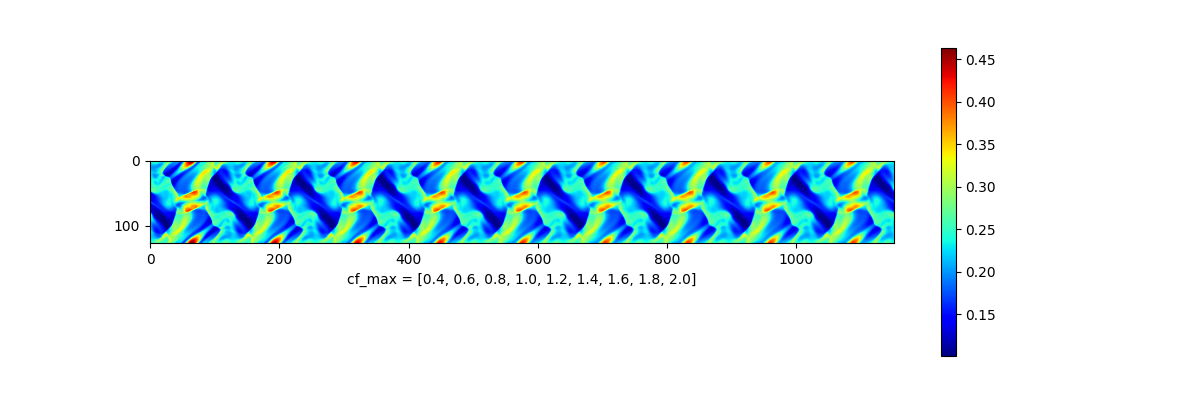
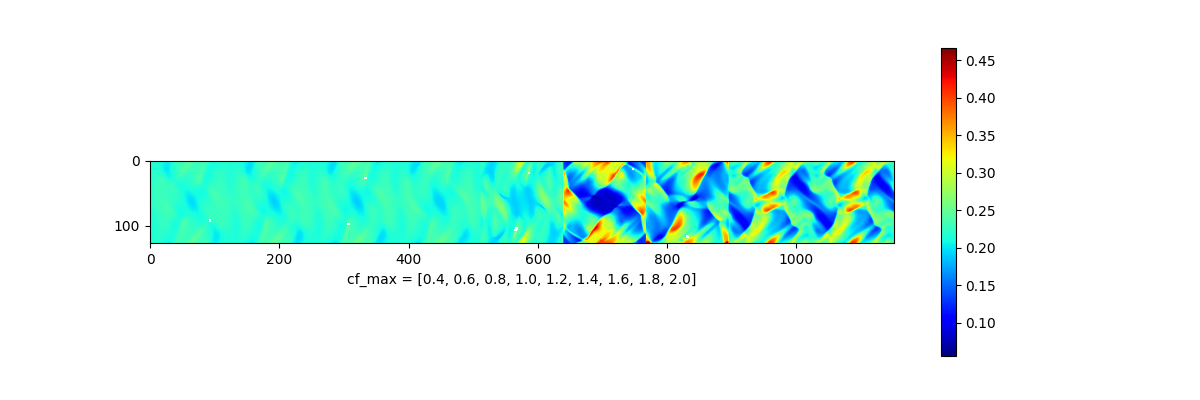
switch alphaSq back on

diff --git a/mhd-boris.py b/mhd-boris.py
@@ -280,8 +280,8 @@ def getFlux(rho_L, rho_R, vx_L, vx_R, vy_L, vy_R, P_L, P_R, Bx_L, Bx_R, By_L, By
   alpha = np.minimum(alpha_L, alpha_R)
   alphaSq = alpha ** 2
   # Try 1
-  #flux_Momx *= alphaSq
-  #flux_Momy *= alphaSq
+  flux_Momx *= alphaSq
+  flux_Momy *= alphaSq
   cf_L *= alpha_L
   cf_R *= alpha_R
 
